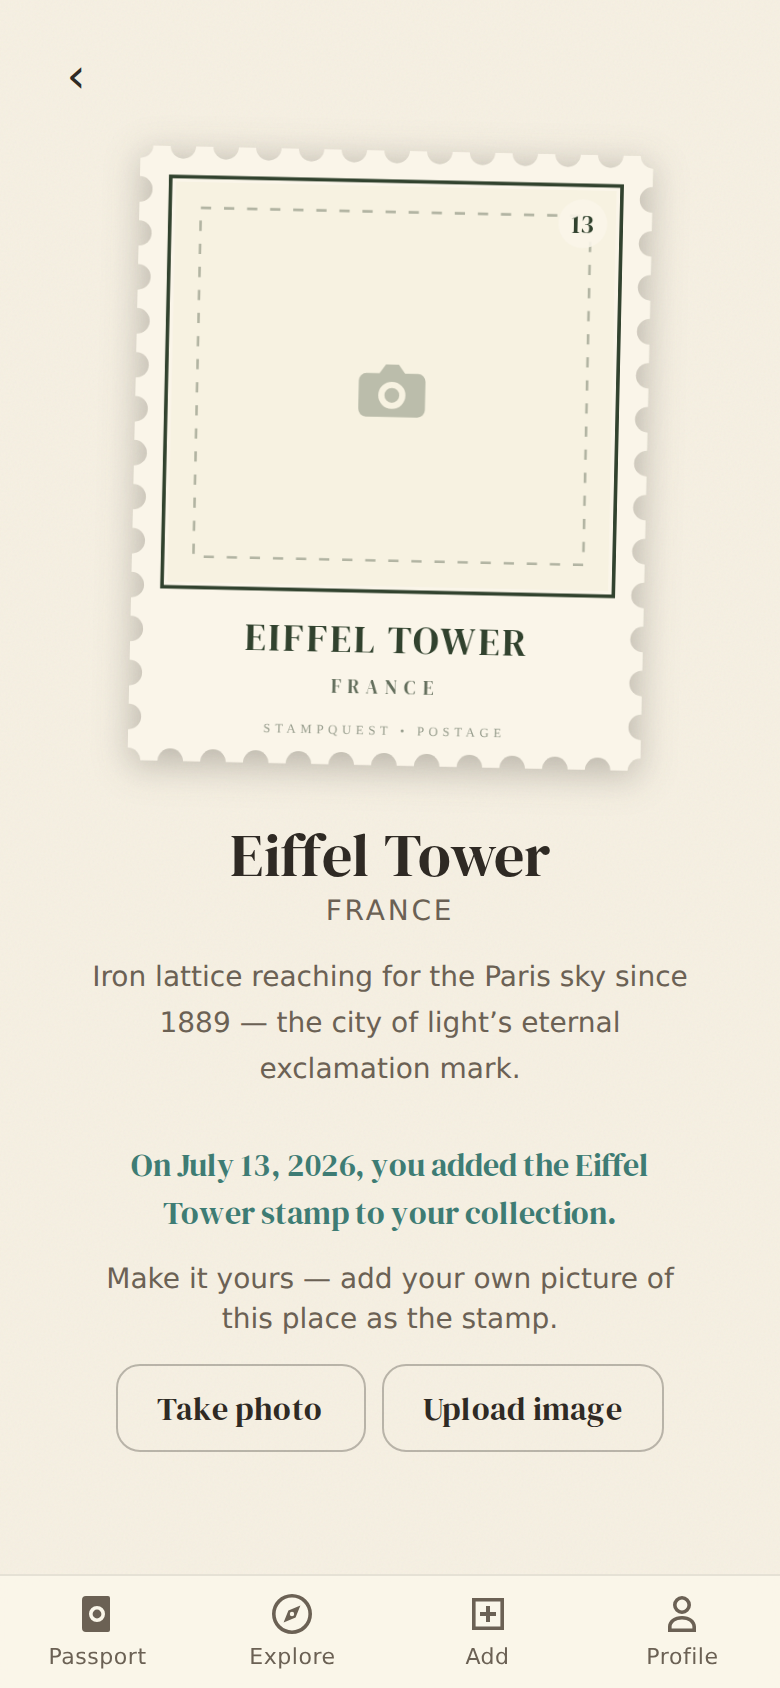
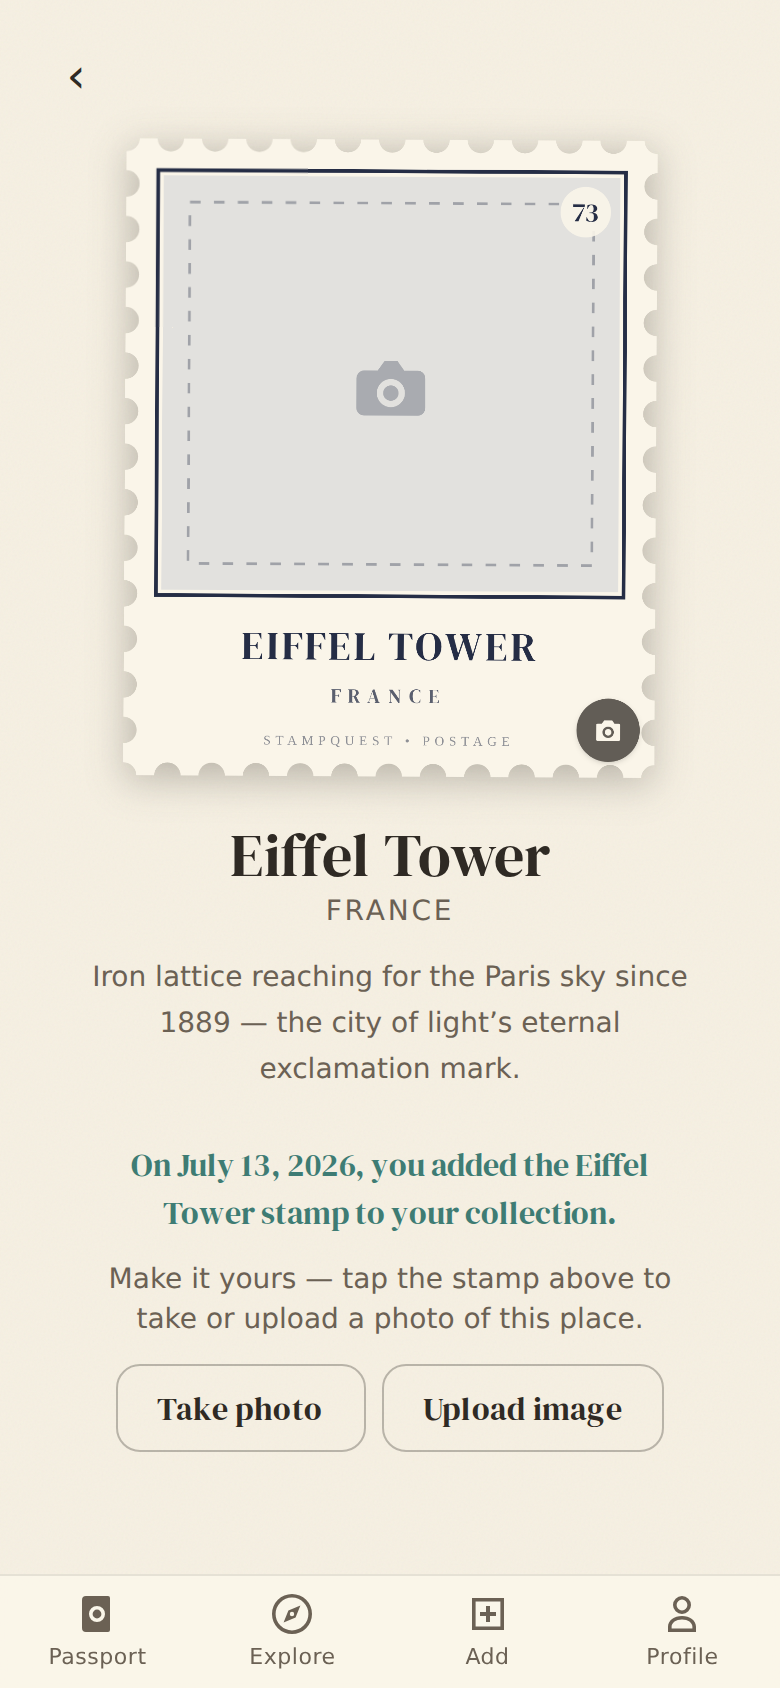
Make the stamp frame itself tappable to add a photo
The blank/collected stamp on the place detail page now opens the photo
picker directly on tap (with a small camera badge as the affordance),
instead of requiring the separate Take photo / Upload image buttons
below it. The buttons remain for explicit camera-vs-library choice;
tapping the stamp opens the same picker as Upload image, which lets
mobile browsers offer both camera and library natively.

Claude-Session: https://claude.ai/code/session_01EzpFEU1o1wNjyaxq3TBjJv

Changed region(s): [[0.1538, 0.0616, 0.8615, 0.4621], [0.1231, 0.7393, 0.8615, 0.8009], [0.4308, 0.2156, 0.5231, 0.2464]]

diff --git a/client/src/pages/PlaceDetailPage.tsx b/client/src/pages/PlaceDetailPage.tsx
@@ -149,16 +149,34 @@ export default function PlaceDetailPage() {
         ‹
       </button>
 
-      <div className={`mx-auto w-3/4 max-w-72 ${justCollected ? 'animate-stamp-down' : ''}`}>
-        <StampSVG
-          subject={place}
-          photoUrl={place.stamp?.photoUrl}
-          className={`w-full ${
-            collected
-              ? 'drop-shadow-[0_4px_10px_rgba(47,42,36,0.3)]'
-              : 'opacity-60 grayscale contrast-[0.85]'
-          }`}
-        />
+      <div className={`relative mx-auto w-3/4 max-w-72 ${justCollected ? 'animate-stamp-down' : ''}`}>
+        {collected ? (
+          <button
+            type="button"
+            onClick={() => uploadInput.current?.click()}
+            disabled={savingPhoto}
+            className="block w-full text-left transition-transform active:scale-[0.98] disabled:active:scale-100"
+            aria-label={place.stamp!.photoUrl ? 'Replace stamp photo' : 'Add a photo for this stamp'}
+            data-testid="stamp-photo-tap-target"
+          >
+            <StampSVG
+              subject={place}
+              photoUrl={place.stamp?.photoUrl}
+              className="w-full drop-shadow-[0_4px_10px_rgba(47,42,36,0.3)]"
+            />
+            <span className="pointer-events-none absolute right-2 bottom-2 flex h-8 w-8 items-center justify-center rounded-full bg-ink/75 shadow">
+              <svg viewBox="0 0 24 24" className="h-4 w-4 fill-paper-light" aria-hidden>
+                <path d="M4 7h3.2L9 4.5h6L16.8 7H20a1 1 0 0 1 1 1v11a1 1 0 0 1-1 1H4a1 1 0 0 1-1-1V8a1 1 0 0 1 1-1Zm8 2.2a4.3 4.3 0 1 0 0 8.6 4.3 4.3 0 0 0 0-8.6Zm0 1.8a2.5 2.5 0 1 1 0 5 2.5 2.5 0 0 1 0-5Z" />
+              </svg>
+            </span>
+          </button>
+        ) : (
+          <StampSVG
+            subject={place}
+            photoUrl={place.stamp?.photoUrl}
+            className="w-full opacity-60 grayscale contrast-[0.85]"
+          />
+        )}
       </div>
 
       <h1 className="mt-5 text-center font-display text-3xl">{place.name}</h1>
@@ -181,7 +199,7 @@ export default function PlaceDetailPage() {
             </p>
             {!place.stamp!.photoUrl && (
               <p className="max-w-72 text-center text-sm text-ink-soft">
-                Make it yours — add your own picture of this place as the stamp.
+                Make it yours — tap the stamp above to take or upload a photo of this place.
               </p>
             )}
             <div className="flex gap-2">

diff --git a/e2e/stampquest.spec.ts b/e2e/stampquest.spec.ts
@@ -48,9 +48,13 @@ test('register, collect at the Eiffel Tower, add a custom place', async ({ page 
   );
   await page.screenshot({ path: shot('04-collected') });
 
-  // the stamp starts blank — the traveler's own photo becomes the stamp art
+  // the stamp starts blank — tapping it is the primary way to add a photo
   await expect(page.getByTestId('stamp-photo')).toHaveCount(0);
-  await page.getByTestId('photo-upload-input').setInputFiles({
+  await expect(page.getByTestId('stamp-photo-tap-target')).toBeVisible();
+  const uploadChooser = page.waitForEvent('filechooser');
+  await page.getByTestId('stamp-photo-tap-target').click();
+  const chooser = await uploadChooser;
+  await chooser.setFiles({
     name: 'eiffel.png',
     mimeType: 'image/png',
     buffer: Buffer.from(TEST_PNG_BASE64, 'base64'),